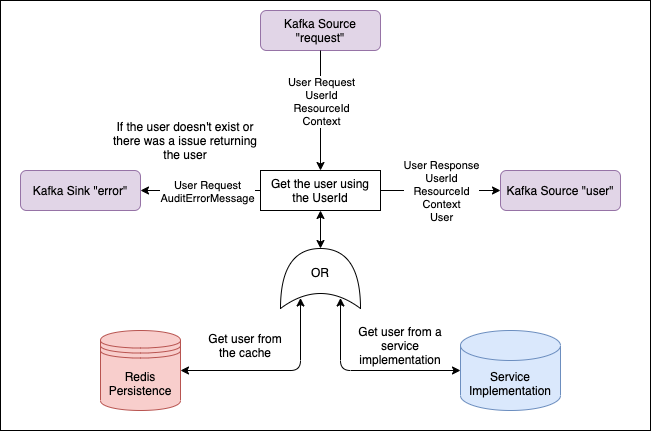
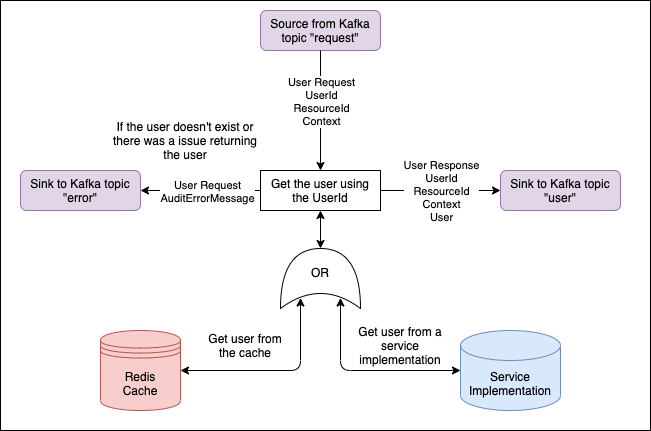
Pal 872 updated ReadMe and doc images

diff --git a/user-service/README.md b/user-service/README.md
@@ -36,14 +36,14 @@ See user-service/doc/user-service.drawio for the source of this diagram
 
 ## Message Model and Database Domain
 
-| UserRequest     | UserResponse     | AuditErrorMessage | AuditableUserResponse |
-|:----------------|:-----------------|:------------------|:----------------------|
-| *token          | *token           | *token            | *token                | 
-| userId          | userId           | userId            | UserResponse          |  
-| resourceId      | resourceId       | resourceId        | AuditErrorMessage     |
-| context         | context          | context           |                       |
-|                 | User             | exception         |                       | 
-|                 |                  | serverMetadata    |                       |
+| UserRequest     | UserResponse     | AuditErrorMessage |
+|:----------------|:-----------------|:------------------|
+| *token          | *token           | *token            |
+| userId          | userId           | userId            |
+| resourceId      | resourceId       | resourceId        |
+| context         | context          | context           |
+|                 | User             | exception         |
+|                 |                  | serverMetadata    |
   
 (fields marked with * are acquired from headers metadata)
 
@@ -81,7 +81,7 @@ curl -X POST user-service/api/user -H "x-request-token: test-request-token" -H "
 ```
 
 
-## Example JSON Response
+## Example JSON Kafka Topic ('user') Output
 ```
 '{
   "userId": "test-user-id",
